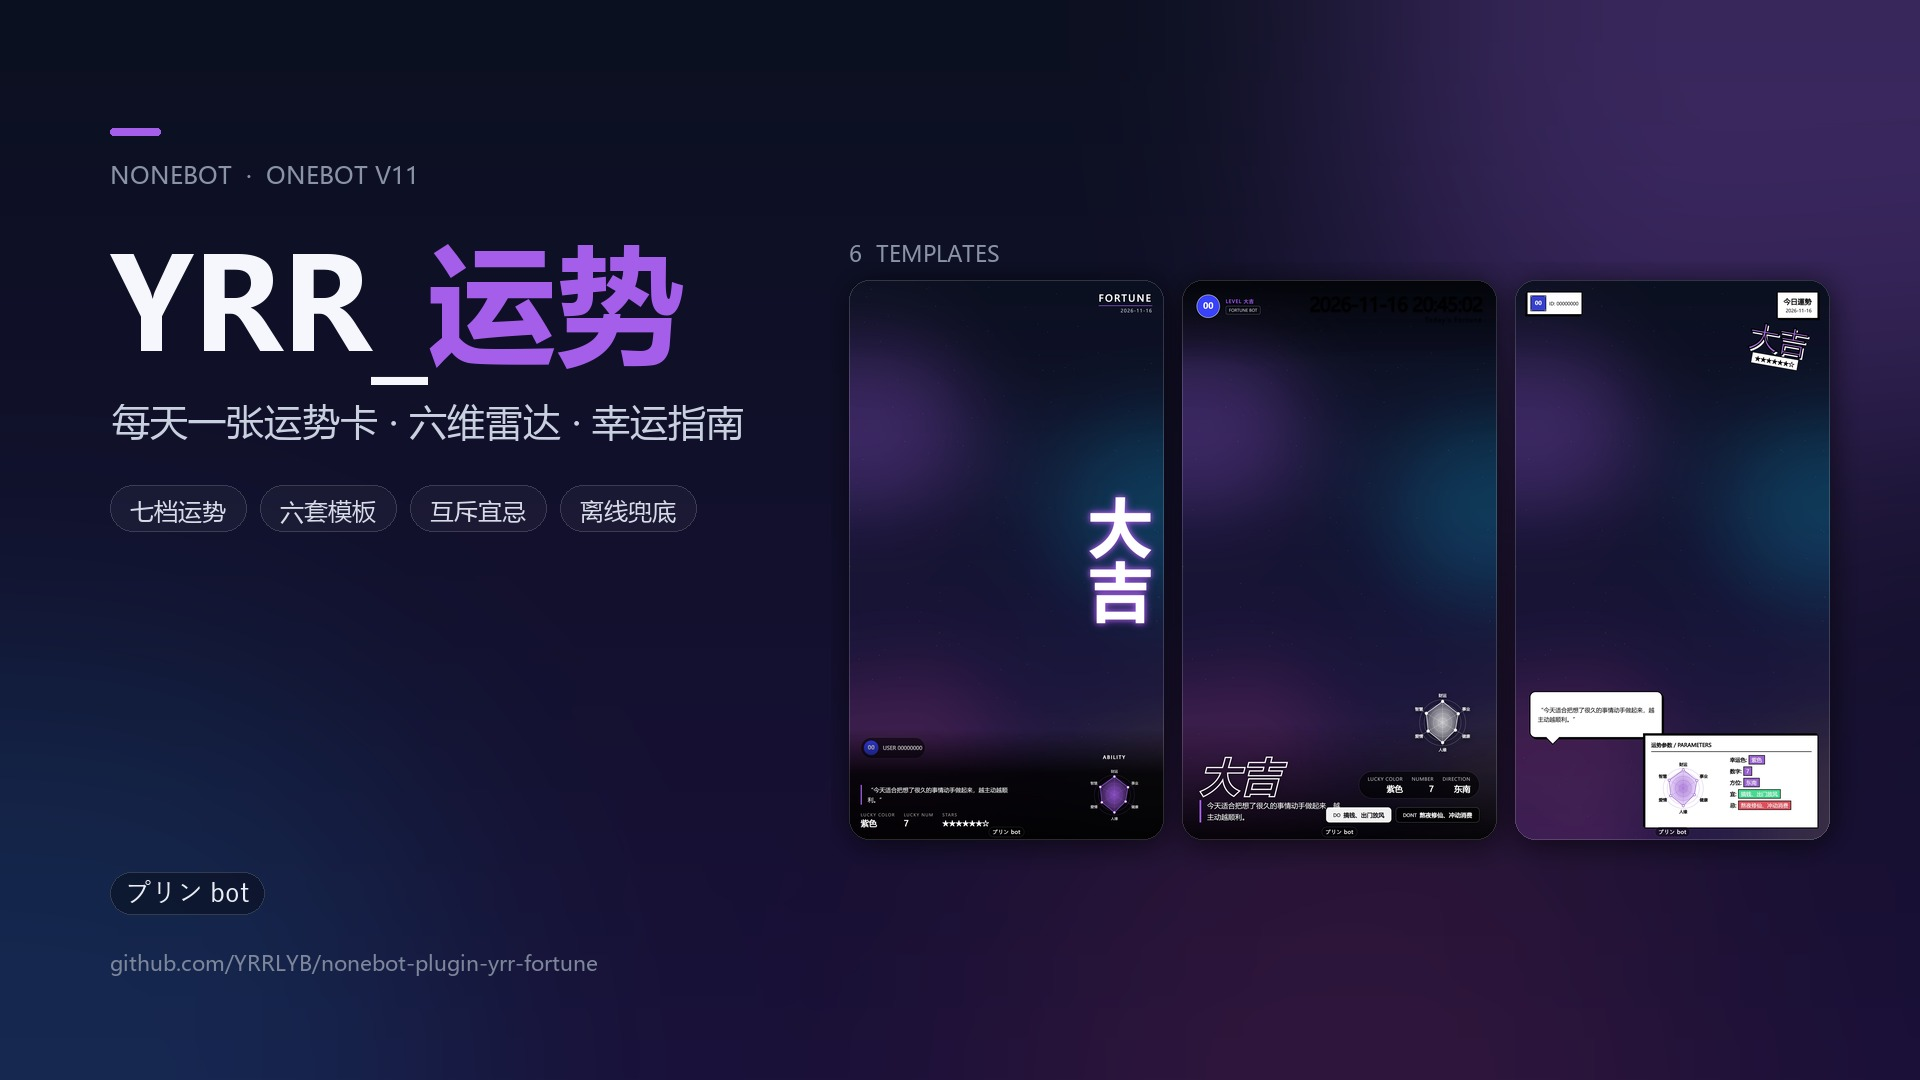
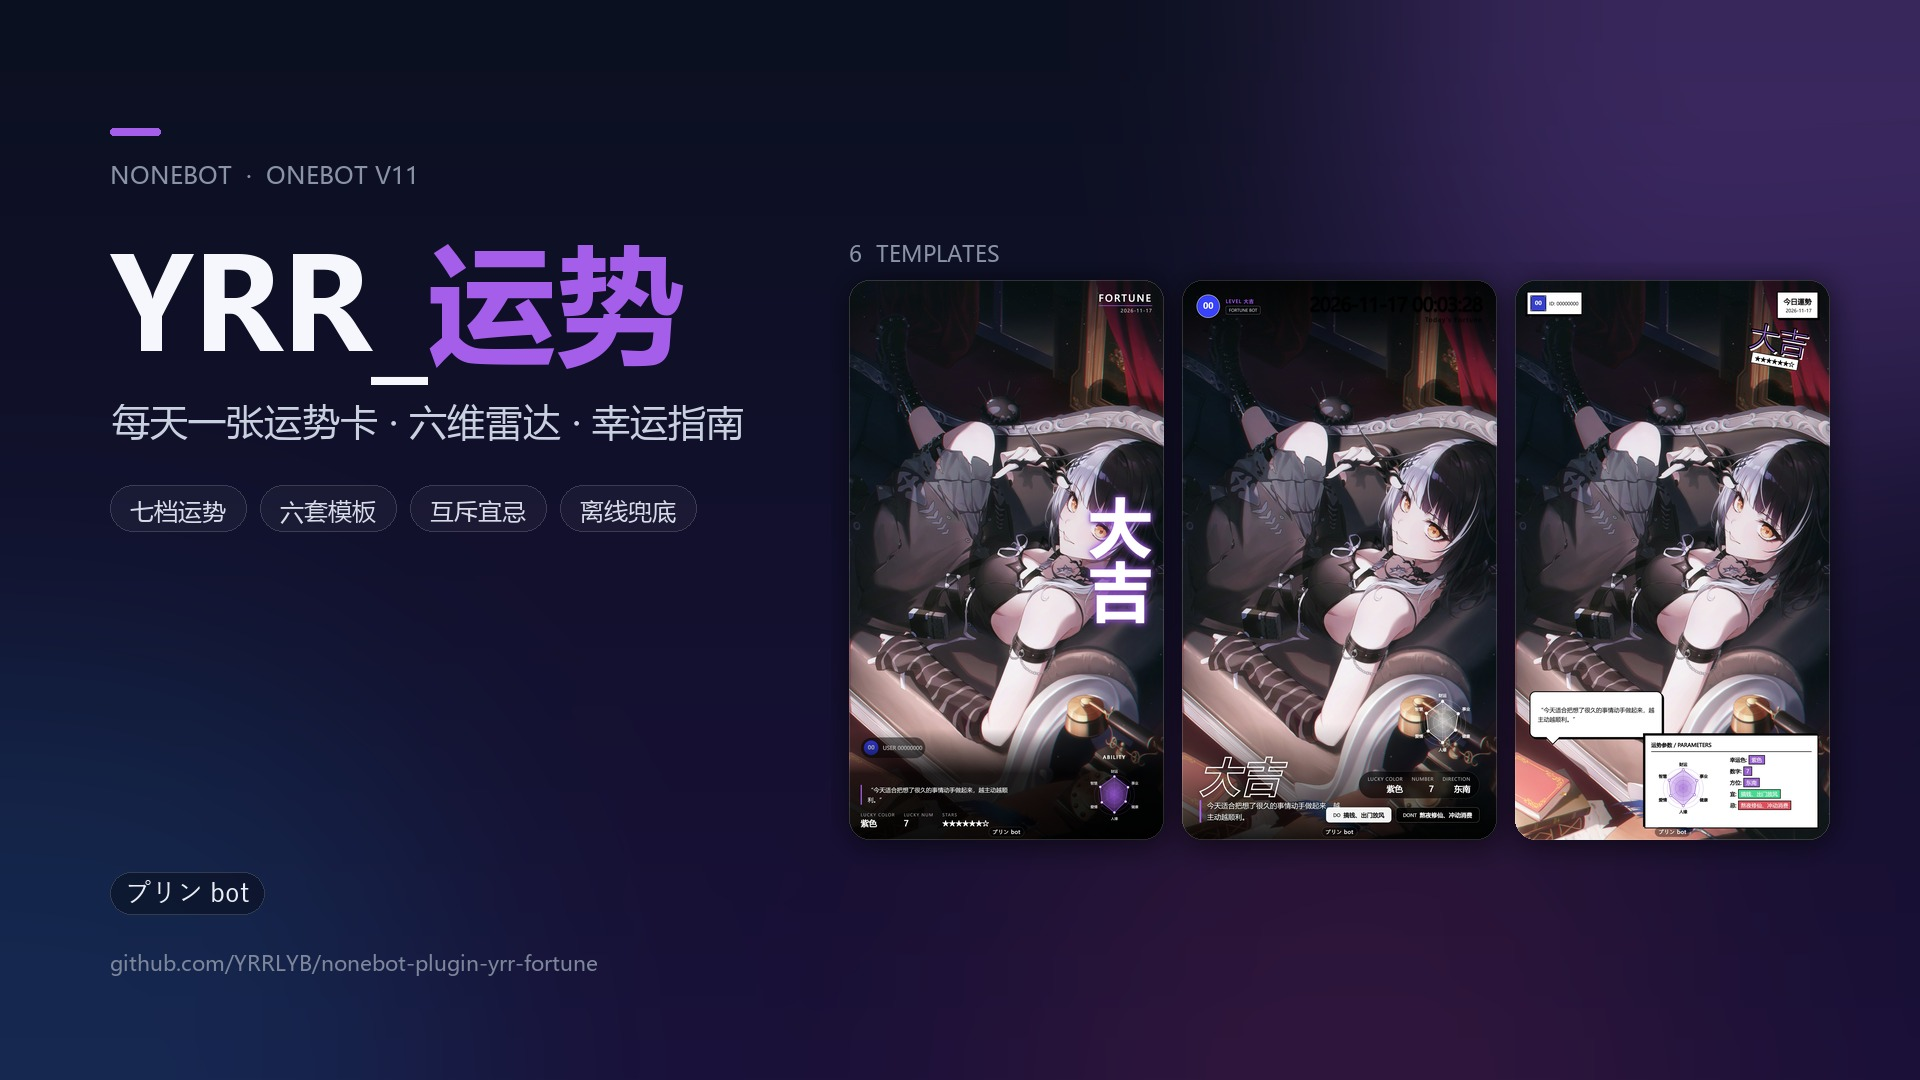
feat: 1.0.4 htmlrender 0.8 compatibility + real-background demo screenshots

Changed region(s): [[0.4375, 0.2444, 0.9688, 0.7944]]

diff --git a/scripts/render_previews.py b/scripts/render_previews.py
@@ -18,7 +18,8 @@ import random
 import sys
 from pathlib import Path
 
-from PIL import Image, ImageDraw, ImageFilter, ImageFont
+import httpx
+from PIL import Image, ImageDraw, ImageFilter, ImageFont, ImageOps
 from playwright.sync_api import sync_playwright
 
 ROOT = Path(__file__).resolve().parents[1]
@@ -87,6 +88,41 @@ def font_rule() -> str:
         return ""
     uri = FONT.resolve().as_uri()
     return f"@font-face {{ font-family: 'MsyhCustom'; src: url('{uri}') format('truetype'); }}"
+
+
+def load_demo_background(path: Path) -> None:
+    """Use a real fortune-style photo, generated locally if the API fails."""
+
+    local = os.environ.get("FORTUNE_DEMO_BACKGROUND")
+    if local and Path(local).is_file():
+        try:
+            with Image.open(local) as image:
+                image = ImageOps.exif_transpose(image).convert("RGB")
+                image.thumbnail((1600, 2560), Image.Resampling.LANCZOS)
+                image.save(path, "JPEG", quality=92, optimize=True)
+            print(f"demo background: local {local} -> {path.name}")
+            return
+        except Exception as exc:
+            print(f"local demo background failed ({exc}); trying API")
+
+    url = os.environ.get(
+        "FORTUNE_DEMO_BACKGROUND_URL",
+        "https://photo.yrrlyb.top/api.php?sort=mp",
+    )
+    try:
+        with httpx.Client(timeout=60.0, follow_redirects=True) as client:
+            response = client.get(url)
+            response.raise_for_status()
+            data = response.content
+        with Image.open(io.BytesIO(data)) as image:
+            image = ImageOps.exif_transpose(image).convert("RGB")
+            image.thumbnail((1600, 2560), Image.Resampling.LANCZOS)
+            image.save(path, "JPEG", quality=92, optimize=True)
+        print(f"demo background: {url} -> {path.name}")
+        return
+    except Exception as exc:
+        print(f"demo background download failed ({exc}); using generated fallback")
+    make_demo_background(path)
 
 
 def make_demo_background(path: Path) -> None:
@@ -278,7 +314,7 @@ def main() -> int:
 
     DOCS.mkdir(exist_ok=True)
     demo_bg = ROOT / "scripts" / "_demo_bg.jpg"
-    make_demo_background(demo_bg)
+    load_demo_background(demo_bg)
 
     core = load_core()
     context = core.build_render_context(

diff --git a/nonebot_plugin_yrr_fortune/__init__.py b/nonebot_plugin_yrr_fortune/__init__.py
@@ -38,8 +38,16 @@ require("nonebot_plugin_localstore")
 require("nonebot_plugin_htmlrender")
 
 from nonebot_plugin_apscheduler import scheduler
-from nonebot_plugin_htmlrender import html_to_pic
 from nonebot_plugin_localstore import get_plugin_cache_dir, get_plugin_data_dir
+
+try:  # nonebot-plugin-htmlrender < 0.8
+    from nonebot_plugin_htmlrender import html_to_pic
+
+    _HTMLRENDER_LEGACY = True
+except ImportError:  # nonebot-plugin-htmlrender >= 0.8 exposes render_html
+    from nonebot_plugin_htmlrender import render_html
+
+    _HTMLRENDER_LEGACY = False
 
 from .config import Config, fortune_texts
 from .core import (
@@ -516,6 +524,27 @@ def _as_uri(path: Optional[Path]) -> str:
         return ""
 
 
+async def _render_card(html: str, viewport: Dict[str, int]) -> bytes:
+    """Render one card on both htmlrender API generations."""
+
+    if _HTMLRENDER_LEGACY:
+        return await html_to_pic(
+            html, viewport=viewport, type="jpeg", quality=92
+        )
+
+    rendered = await render_html(
+        html,
+        width=viewport["width"],
+        height=viewport["height"],
+        device_pixel_ratio=2,
+        image_format="jpeg",
+        quality=92,
+        base_url=Path.cwd().resolve().as_uri(),
+        timeout_seconds=max(30.0, HTTP_TIMEOUT * 2),
+    )
+    return rendered.data
+
+
 # ---------------------------------------------------------------------------
 # Matchers
 # ---------------------------------------------------------------------------
@@ -570,11 +599,9 @@ async def handle_fortune(event: MessageEvent) -> None:
     try:
         try:
             html = template.format(**context)
-            image_bytes = await html_to_pic(
+            image_bytes = await _render_card(
                 html,
-                viewport=TEMPLATE_VIEWPORTS.get(template_choice, {"width": 1000, "height": 1000}),
-                type="jpeg",
-                quality=92,
+                TEMPLATE_VIEWPORTS.get(template_choice, {"width": 1000, "height": 1000}),
             )
         except FinishedException:
             raise

diff --git a/CHANGELOG.md b/CHANGELOG.md
@@ -1,5 +1,11 @@
 # Changelog
 
+## 1.0.4（2026-11-16）
+
+- 兼容 `nonebot-plugin-htmlrender` 0.8.x：新版移除了顶层 `html_to_pic`，改为按版本自动使用 `render_html`，修复商店插件加载失败。
+- 演示截图改用真实的运势背景图（来自默认 `sort=mp` 接口），不再使用生成的抽象渐变；QQ 号仍为虚构的 `00000000`，头像为生成占位头像。
+- 重新生成全尺寸 `preview-*.jpg`、`help.jpg` 和 `docs/cover.jpg`。
+
 ## 1.0.3（2026-11-16）
 
 - 商店展示名改为 `YRR_运势`（模块名仍为 `nonebot_plugin_yrr_fortune`）。

diff --git a/README.md b/README.md
@@ -6,7 +6,7 @@
 
 ![YRR_运势](https://raw.githubusercontent.com/YRRLYB/nonebot-plugin-yrr-fortune/main/docs/cover.jpg)
 
-> 展示图中的 QQ 号、头像和背景均为生成的演示数据，不含真实用户信息。
+> 展示图中的 QQ 号和头像为虚构演示数据，背景来自默认运势接口；不含真实用户信息。
 
 ## 特性一览
 
